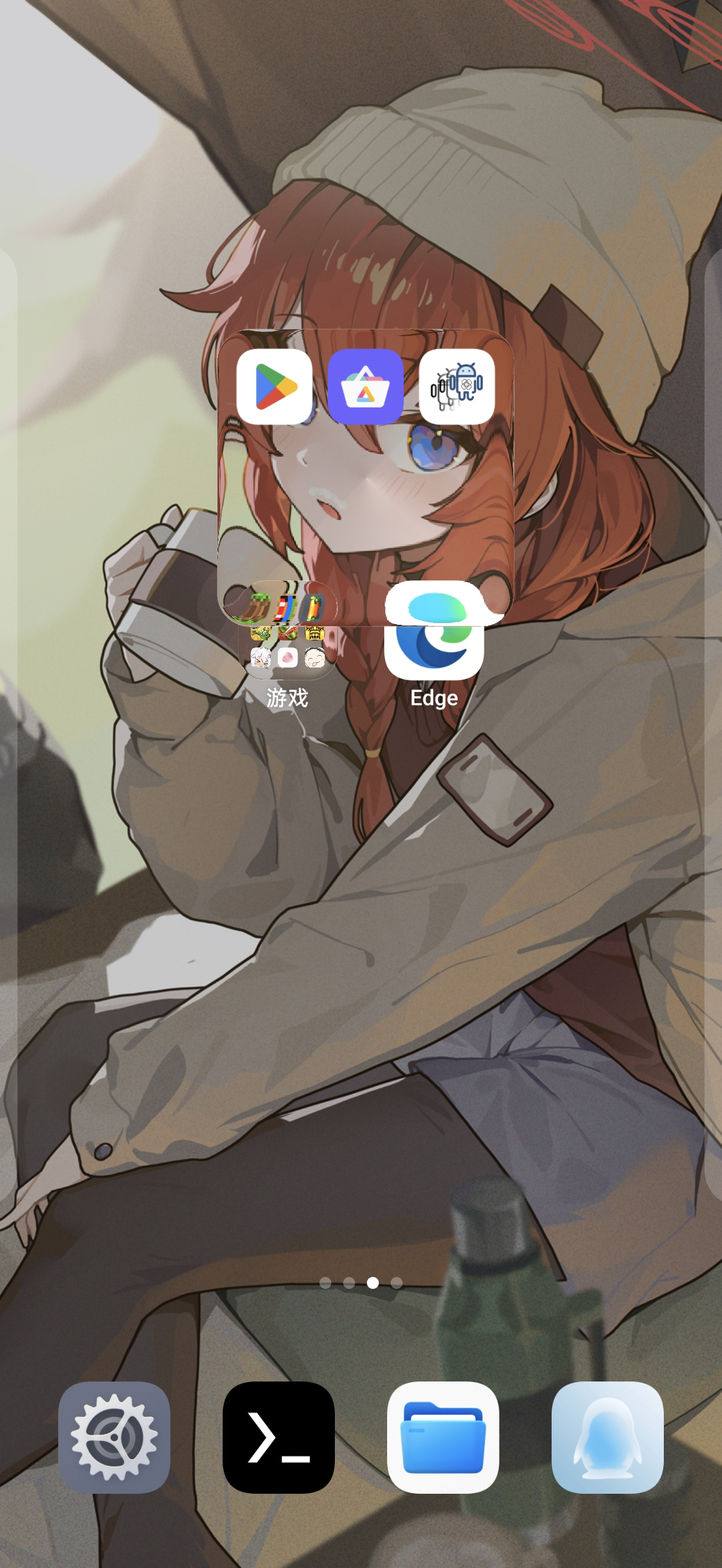
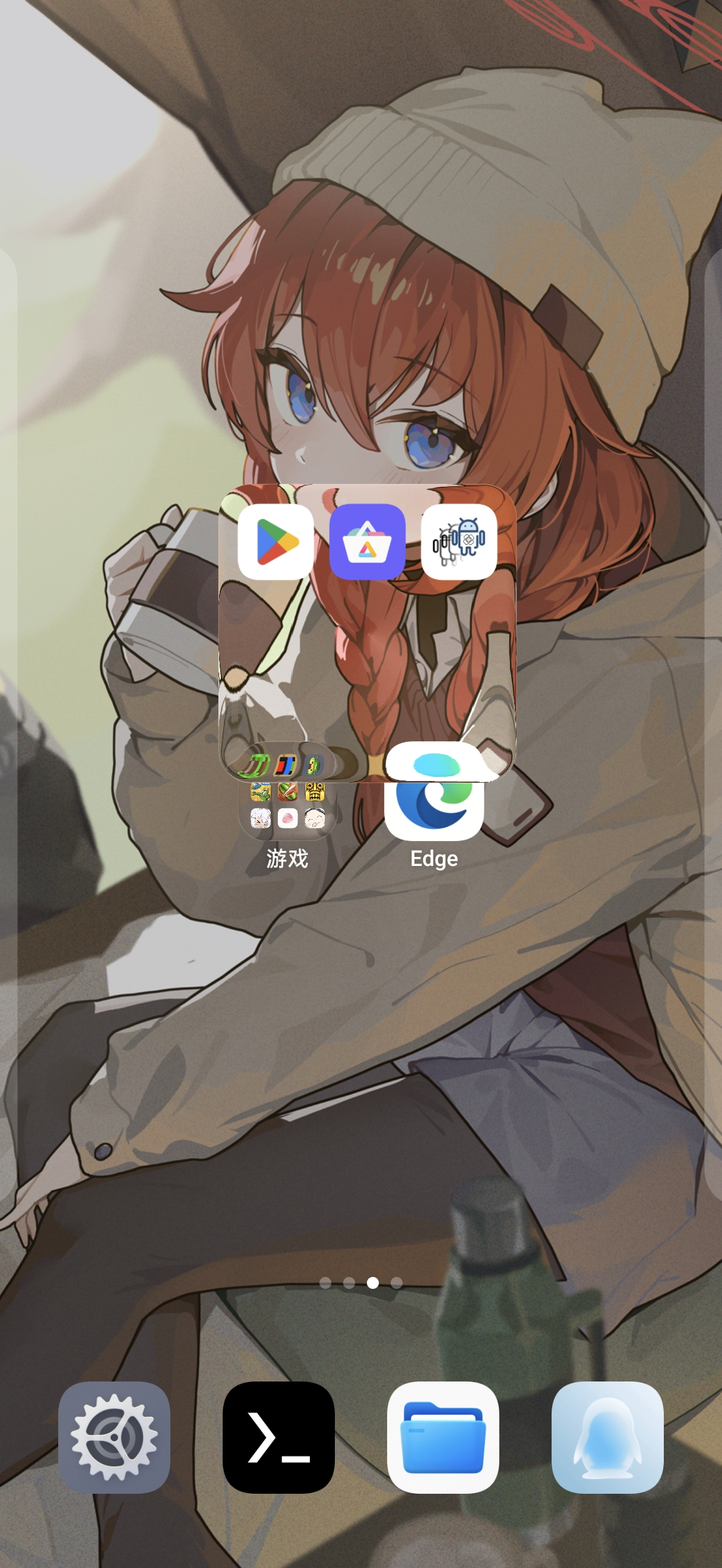
increase background sampling

Changed region(s): [[0.2812, 0.1864, 0.7188, 0.5591]]

diff --git a/app/src/main/java/net/z841973620/colorosliquidglass/glass/BackdropCapture.java b/app/src/main/java/net/z841973620/colorosliquidglass/glass/BackdropCapture.java
@@ -6,7 +6,6 @@ import android.graphics.Canvas;
 import android.graphics.Color;
 import android.graphics.Rect;
 import android.graphics.drawable.Drawable;
-import android.os.SystemClock;
 import android.view.View;
 import android.view.ViewParent;
 import android.view.ViewTreeObserver;
@@ -17,27 +16,20 @@ import java.util.List;
 import java.util.Map;
 import java.util.WeakHashMap;
 
-/**
- * Captures a target-local backdrop for one Launcher folder background.
- * Large folders are expensive to sample, so capture is dirty-driven, downscaled, and
- * never re-entered from the invalidate that publishes a new frame.
- * <p>
- * Dragged-folder glass paints wallpaper + {@link DesktopIconOverlay} without hiding
- * {@code *DragView} (hiding flickers). Idle folder icons still hide the host and
- * software-draw the hierarchy.
- */
-final class BackdropCapture implements ViewTreeObserver.OnPreDrawListener,
-        View.OnAttachStateChangeListener {
+    /**
+     * Captures a target-local backdrop for one Launcher folder background.
+     * Capture bitmaps stay 1:1 with the glass view so backdrop detail matches screen pixels.
+     * Sampling runs every frame while the glass is moving (geometry / drag / wallpaper zoom);
+     * while stationary the last good frame is kept (no idle re-sample).
+     * <p>
+     * Dragged-folder glass paints wallpaper + {@link DesktopIconOverlay} without hiding
+     * {@code *DragView} (hiding flickers). Idle folder icons still hide the host and
+     * software-draw the hierarchy.
+     */
+    final class BackdropCapture implements ViewTreeObserver.OnPreDrawListener,
+            View.OnAttachStateChangeListener {
     private static final Map<View, BackdropCapture> CAPTURES = new WeakHashMap<>();
     private static final Map<View, WeakReference<View>> OVERLAY_SOURCES = new WeakHashMap<>();
-    /** While moving/resizing, refresh as often as predraw allows (1ms pacing). */
-    private static final long ACTIVE_CAPTURE_INTERVAL_MS = 1L;
-    /** Idle desktop folders barely change; avoid full-hierarchy redraws every frame. */
-    private static final long IDLE_CAPTURE_INTERVAL_MS = 1000L;
-    /** Keep active pacing until folder/wallpaper has been still for this long. */
-    private static final long IDLE_SETTLE_MS = 1000L;
-    /** Cap software bitmap edge so 2x2 folders do not allocate huge ARGB buffers. */
-    private static final int MAX_CAPTURE_EDGE_PX = 320;
 
     static BackdropCapture register(View target) {
         synchronized (CAPTURES) {
@@ -116,19 +108,16 @@ final class BackdropCapture implements ViewTreeObserver.OnPreDrawListener,
             capture.rootRef = new WeakReference<>(root);
         }
         if (capture.recording) return;
-        capture.activeUntil = SystemClock.uptimeMillis() + IDLE_SETTLE_MS;
         capture.dirty = true;
         capture.capture(root, target, true);
-        capture.lastCapture = SystemClock.uptimeMillis();
     }
 
     /**
-     * Marks every live capture dirty and keeps active pacing briefly. Used after unlock /
-     * resume when wallpaper and DragLayer alpha settle asynchronously.
+     * Marks every live capture dirty. Used after unlock / resume when wallpaper and
+     * DragLayer alpha settle asynchronously.
      * Keeps the last good frame until a meaningful replacement arrives (no fallback flash).
      */
     static void refreshAll() {
-        long now = SystemClock.uptimeMillis();
         List<View> targets = new ArrayList<>();
         synchronized (CAPTURES) {
             for (Map.Entry<View, BackdropCapture> entry : CAPTURES.entrySet()) {
@@ -136,7 +125,6 @@ final class BackdropCapture implements ViewTreeObserver.OnPreDrawListener,
                 BackdropCapture capture = entry.getValue();
                 if (capture == null) continue;
                 capture.dirty = true;
-                capture.activeUntil = Math.max(capture.activeUntil, now + 2000L);
                 // Force geometry re-evaluation so depth/alpha changes are not missed.
                 capture.lastWallpaperDepth = Float.NaN;
                 capture.lastRootScale = Float.NaN;
@@ -160,8 +148,6 @@ final class BackdropCapture implements ViewTreeObserver.OnPreDrawListener,
     private final int[] locationScratch = new int[2];
     private final Rect visibleScratch = new Rect();
     private boolean validFrame;
-    private long lastCapture;
-    private long activeUntil;
     private boolean recording;
     private boolean observerAttached;
     /** Set after publishing a frame so the resulting invalidate does not recapture immediately. */
@@ -215,7 +201,6 @@ final class BackdropCapture implements ViewTreeObserver.OnPreDrawListener,
 
     private void markDirty() {
         dirty = true;
-        activeUntil = Math.max(activeUntil, SystemClock.uptimeMillis() + IDLE_SETTLE_MS);
     }
 
     @Override public boolean onPreDraw() {
@@ -231,10 +216,7 @@ final class BackdropCapture implements ViewTreeObserver.OnPreDrawListener,
         }
 
         boolean geometryChanged = updateGeometryState(target, owner, root);
-        if (geometryChanged) {
-            dirty = true;
-            activeUntil = SystemClock.uptimeMillis() + IDLE_SETTLE_MS;
-        }
+        if (geometryChanged) dirty = true;
 
         // Lock / early unlock: DragLayer alpha is 0. Skip sampling so we do not overwrite a
         // good snapshot with an empty frame; stay dirty until the hierarchy is visible again.
@@ -250,16 +232,17 @@ final class BackdropCapture implements ViewTreeObserver.OnPreDrawListener,
             if (!geometryChanged && !dirty) return true;
         }
 
-        long now = SystemClock.uptimeMillis();
         boolean wallpaperAnimating = WallpaperScaleTracker.isAnimating();
-        boolean active = now <= activeUntil || geometryChanged || wallpaperAnimating;
-        long interval = active ? ACTIVE_CAPTURE_INTERVAL_MS : IDLE_CAPTURE_INTERVAL_MS;
-        // Spread idle refreshes so many large folders do not all redraw the hierarchy together.
-        if (!active) interval += Math.floorMod(System.identityHashCode(this), 45);
-        if (validFrame && !dirty && !geometryChanged && now - lastCapture < interval) return true;
+        boolean underDrag = dragViewAncestor(target) != null;
+        boolean moving = geometryChanged || underDrag || wallpaperAnimating;
+
+        // Stationary: keep the last good frame (no idle re-sample). Still allow a one-shot
+        // when there is no frame yet, or dirty was set by unlock / install / forceCapture.
+        if (!moving) {
+            if (validFrame && !dirty) return true;
+        }
 
         capture(root, target, false);
-        lastCapture = now;
         dirty = false;
         return true;
     }
@@ -509,10 +492,9 @@ final class BackdropCapture implements ViewTreeObserver.OnPreDrawListener,
         }
     }
 
+    /** Always capture at view pixel size — downscaling made the glass backdrop look soft. */
     private static float captureScale(int width, int height) {
-        int edge = Math.max(width, height);
-        if (edge <= MAX_CAPTURE_EDGE_PX) return 1f;
-        return MAX_CAPTURE_EDGE_PX / (float) edge;
+        return 1f;
     }
 
     private static void translateRootToTarget(View root, View target, Canvas canvas) {
